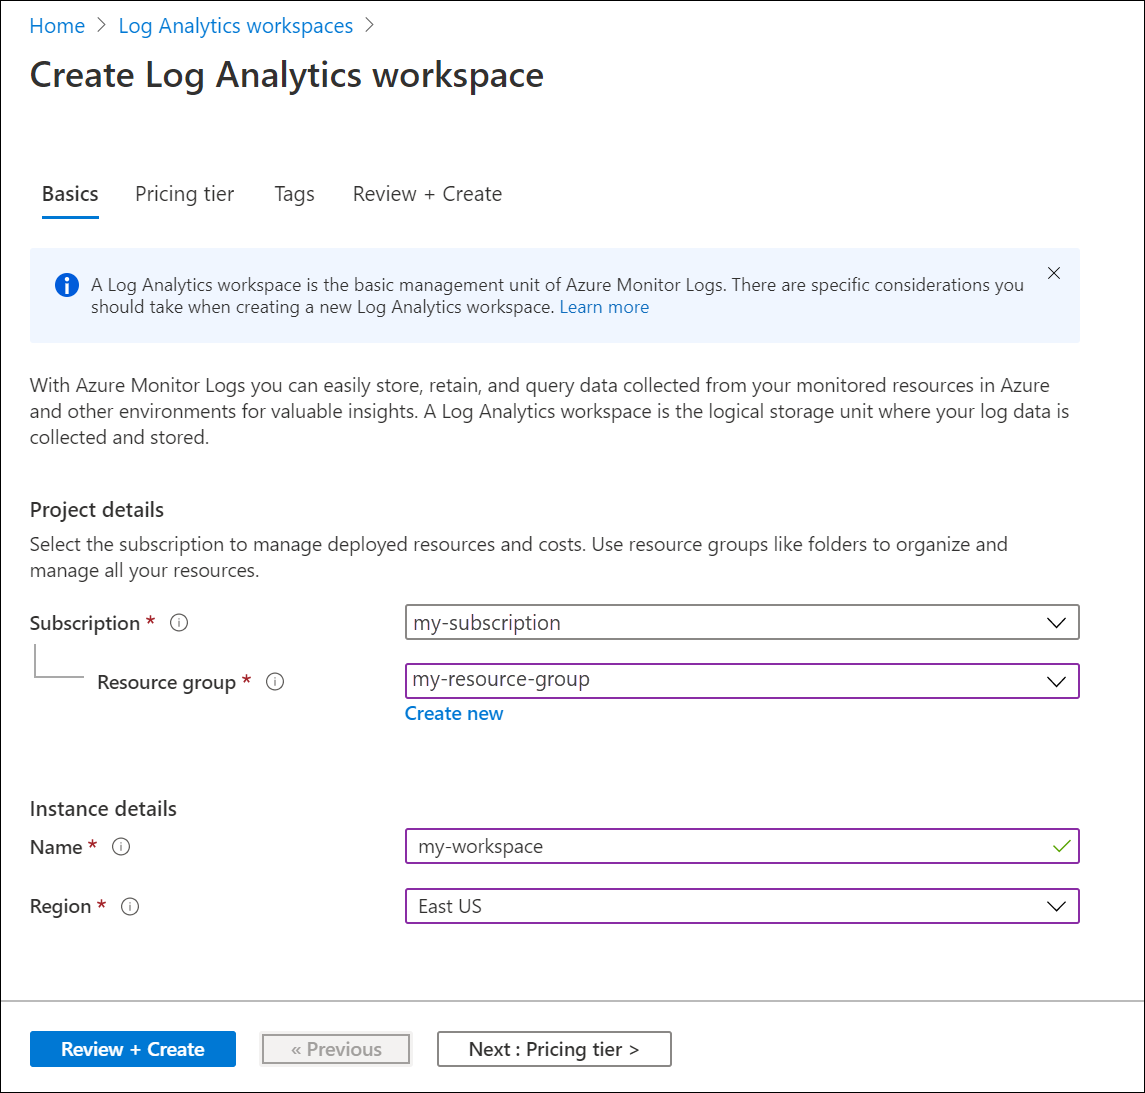
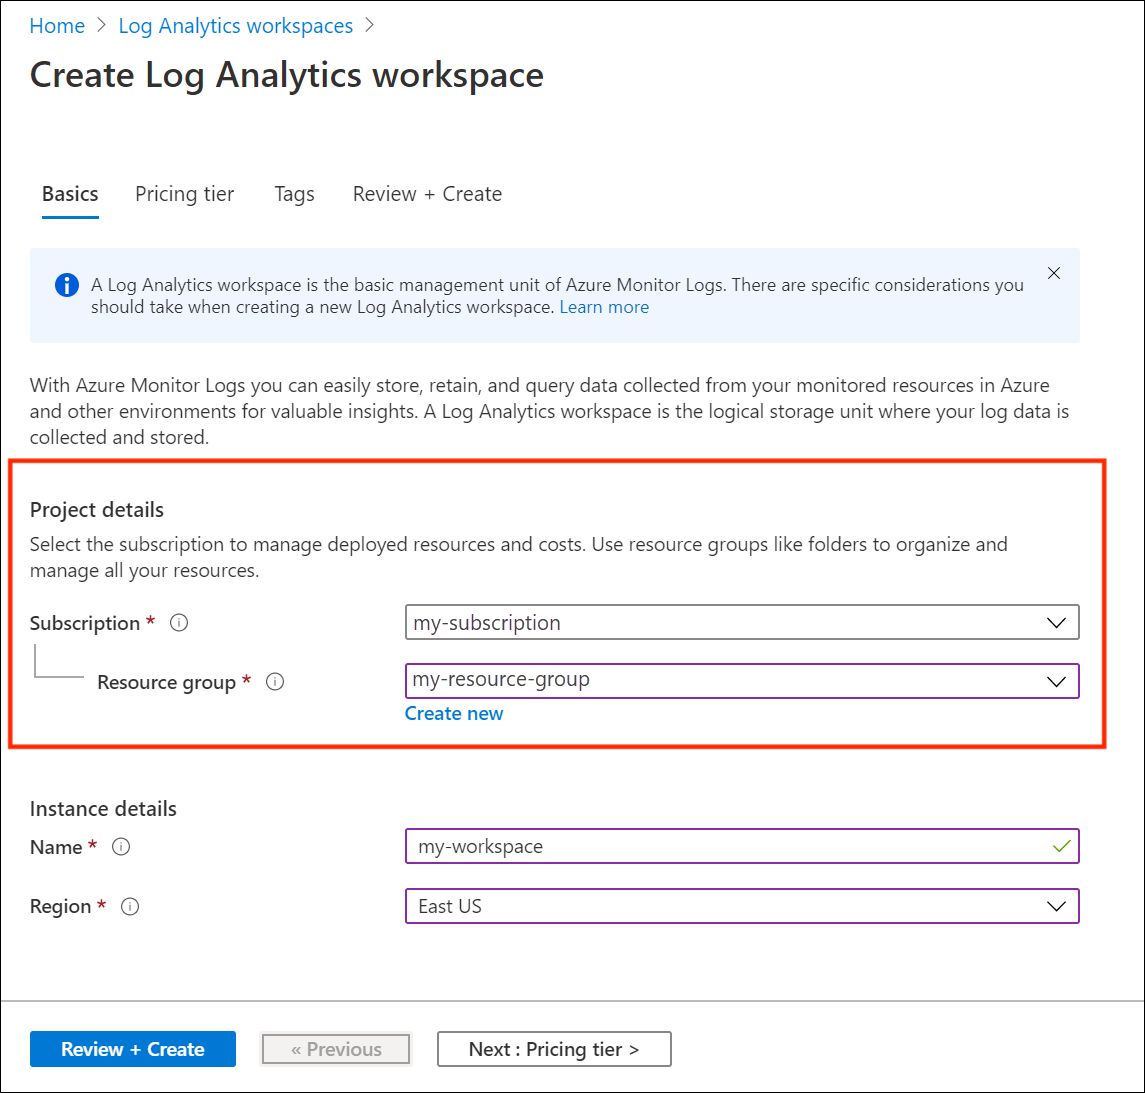
LAW setup and img push

Changed region(s): [[0.0, 0.4044, 0.9782, 0.6844]]

diff --git a/Sentinel Integration/8. Create Log Analytics Workspace.md b/Sentinel Integration/8. Create Log Analytics Workspace.md
@@ -1,8 +1,26 @@
+# Navigate to Log Analytics Workspace in Azure Portal:
 ![](/assets/img/LAW1.png)
 <br/>
 
+# Select +Create
 ![](/assets/img/LAW2.png)
 <br/>
 
+# Select Subscription and Resource Group:
 ![](/assets/img/LAW3.png)
 <br/>
+
+# Select Instance Name and Region:
+![](/assets/img/LAW4.png)
+
+# Commitment / Pricing Tier
+Choose the appropriate commitment tier given your expected daily ingest volume. <br/><br/>
+
+&#128161;
+	&#128073;      **_Personally, I like to see roughly 15% more ingest than required for the next commitment / pricing tier to insulate against nights, weekends, and holidays which inherently drag down the daily ingest volume average._** 
+
+<br/><br/>
+
+
+# Click Review & Create
+ ...to Finish Setting up a New Log Analytics Workspace 
